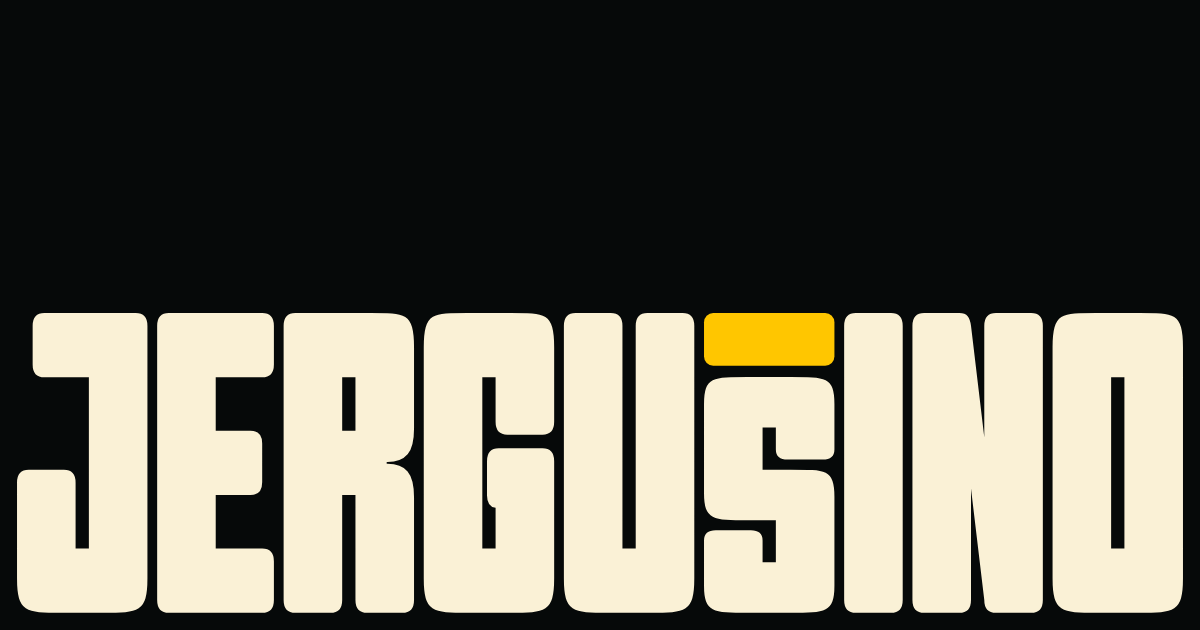
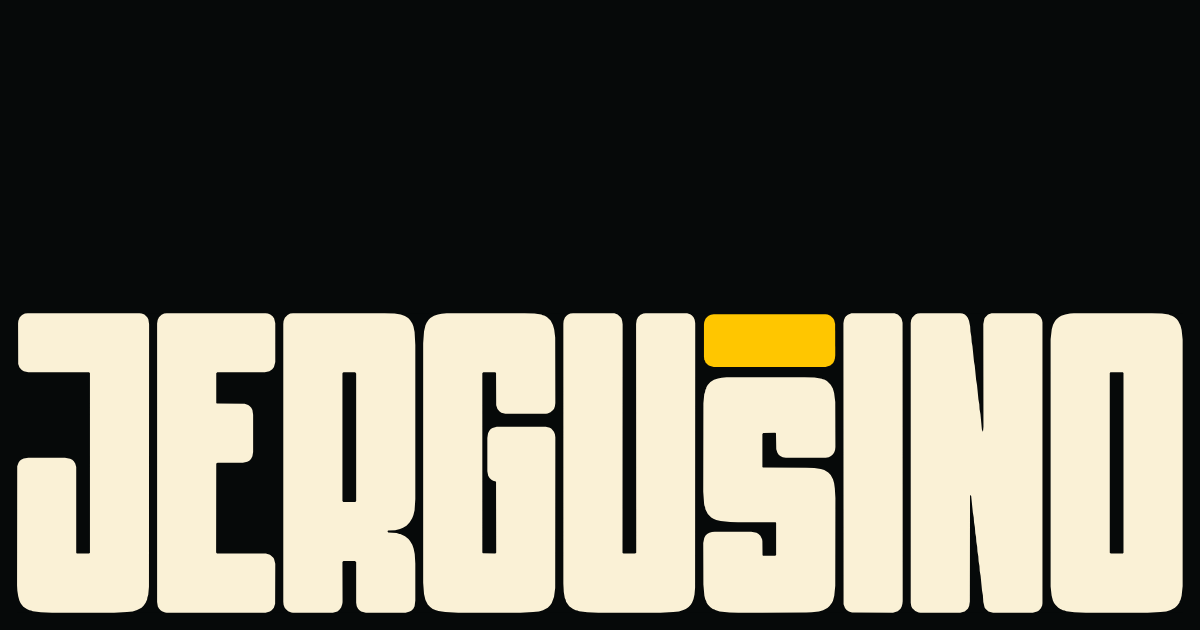
Wordmark traced from the business card instead of the Slithen font
Claude-Session: https://claude.ai/code/session_01RGVpc2Wp958A42zKqCrsaw

diff --git a/assets/css/main.css b/assets/css/main.css
@@ -118,7 +118,7 @@ a:hover, a:focus-visible { color: var(--yellow); }
 }
 .wm-mask { line-height: 0; clip-path: inset(-100vh 0 0 0); }   /* clips the letters below the baseline, leaves the sky open for the bar */
 .wordmark { display: block; width: 100%; height: auto; overflow: visible; }
-.wm-l { fill: var(--cream); }
+.wm-l { fill: var(--cream); fill-rule: evenodd; }
 .wm-bar { fill: var(--yellow); }
 
 /* pages: script + Slithen headline */
@@ -241,7 +241,7 @@ a:hover, a:focus-visible { color: var(--yellow); }
 }
 .wm-mask { line-height: 0; clip-path: inset(-100vh 0 0 0); }   /* clips the letters below the baseline, leaves the sky open for the bar */
 .wordmark { display: block; width: 100%; height: auto; overflow: visible; }
-.wm-l { fill: var(--cream); }
+.wm-l { fill: var(--cream); fill-rule: evenodd; }
 .wm-bar { fill: var(--yellow); }
 
 /* pages: script + Slithen headline */

diff --git a/index.html b/index.html
@@ -27,7 +27,7 @@ description: "i am Jergušino. Motion graphics, dizajn, kód a videá."
     if (!m || !b) return;
     function set() {
       var r = m.getBoundingClientRect();
-      var k = r.width / 1019;                       /* screen px per drawing unit */
+      var k = r.width / 1020;                       /* screen px per drawing unit */
       b.style.setProperty('--drop', '-' + ((r.top + window.scrollY) / k + 50).toFixed(1) + 'px');
       /* the fall takes as long as it needs to look the same on every screen: 0.4 s on a laptop, up to 0.9 s on a tall phone */
       var far = (r.top + window.scrollY) / window.innerWidth;           /* distance in screen widths */

diff --git a/tools/trace_card.py b/tools/trace_card.py
@@ -1,0 +1,119 @@
+"""Trace the wordmark from the business card (Front.png) into SVG paths.
+
+The card's letters are edited versions of Slithen (counters and bars were moved by hand), so the
+website uses the card itself as the source of truth instead of the font's outlines.
+
+Writes: _includes/wordmark.svg (one path per letter, for the rise animation), assets/img/wordmark.svg,
+assets/img/mark.svg and favicon.svg.
+
+Usage: python3 -I trace_card.py <Front.png> <site_dir>
+"""
+import os
+import sys
+
+import cv2
+import numpy as np
+from PIL import Image
+
+card, site = sys.argv[1:3]
+INK, CREAM, YELLOW = '#060909', '#FAF1D6', '#FFC600'
+UP = 8                      # supersampling for the trace
+EPS = 1.4                   # simplification tolerance, in supersampled px (0.18 card px)
+
+rgb = np.asarray(Image.open(card).convert('RGB')).astype(np.float32)
+R, G, B = rgb[..., 0], rgb[..., 1], rgb[..., 2]
+cream = np.clip((B - 9) / (214 - 9), 0, 1)                      # Ink 9, Cream 214, Yellow 0 in the blue channel
+yellow = np.clip((R - B) / 255.0, 0, 1)                          # Yellow 255, Cream 36, Ink 0
+
+TOP = 300                    # everything above is the script "i am"
+cream[:TOP] = 0
+yellow[:TOP] = 0
+
+# letter columns (x ranges of the cream ink in the card), found from the image
+cols = (cream > 0.5).any(0)
+runs, st = [], None
+for x, v in enumerate(cols):
+    if v and st is None:
+        st = x
+    if not v and st is not None:
+        runs.append((st, x - 1))
+        st = None
+if st is not None:
+    runs.append((st, len(cols) - 1))
+assert len(runs) == 9, runs
+
+ys, xs = np.where(cream > 0.5)
+X0, Y0 = int(xs.min()), int(ys.min())          # the wordmark's top-left corner on the card
+W = int(xs.max()) - X0 + 1
+H = int(ys.max()) - Y0 + 1
+
+
+def trace(mask, x_lo, x_hi, y_lo, y_hi, pad=3):
+    """Closed contours of mask>0.5 inside the box, in wordmark coordinates (card px, origin X0,Y0)."""
+    x_lo, y_lo = max(0, x_lo - pad), max(0, y_lo - pad)
+    x_hi, y_hi = min(mask.shape[1], x_hi + pad + 1), min(mask.shape[0], y_hi + pad + 1)
+    crop = mask[y_lo:y_hi, x_lo:x_hi]
+    big = cv2.resize(crop, None, fx=UP, fy=UP, interpolation=cv2.INTER_CUBIC)
+    bw = (big > 0.5).astype(np.uint8)
+    cs, _ = cv2.findContours(bw, cv2.RETR_CCOMP, cv2.CHAIN_APPROX_NONE)
+    d = ''
+    for c in cs:
+        if cv2.contourArea(c) < 20:
+            continue
+        c = cv2.approxPolyDP(c, EPS, True)[:, 0, :].astype(np.float64)
+        px = (c[:, 0] + 0.5) / UP + x_lo - X0
+        py = (c[:, 1] + 0.5) / UP + y_lo - Y0
+        d += 'M' + ' '.join('%.2f %.2f' % (a, b) for a, b in zip(px, py)).replace(' ', ',', 0) + 'Z'
+    return d.replace('M', 'M').replace(',', ',')
+
+
+def pathify(d):
+    # "x y x y ..." -> "x y L x y ..." keeps the file small and valid
+    out = []
+    for sub in d.split('M')[1:]:
+        pts = sub.rstrip('Z').split(' ')
+        pairs = [pts[i] + ' ' + pts[i + 1] for i in range(0, len(pts), 2)]
+        out.append('M' + pairs[0] + 'L' + ' '.join(pairs[1:]) + 'Z')
+    return ''.join(out)
+
+
+letters = []
+for lo, hi in runs:
+    letters.append(pathify(trace(cream, lo, hi, Y0, Y0 + H)))
+
+# the bar: the yellow rectangle above the S (6th letter); ignore the script's yellow elsewhere
+yellow[:, :runs[5][0] - 6] = 0
+yellow[:, runs[5][1] + 7:] = 0
+yellow[:310] = 0
+yb = np.where(yellow > 0.5)
+bx0, bx1, by0, by1 = int(yb[1].min()), int(yb[1].max()), int(yb[0].min()), int(yb[0].max())
+bar_d = pathify(trace(yellow, bx0, bx1, by0, by1))
+bar_x, bar_y, bar_w, bar_h = bx0 - X0, by0 - Y0, bx1 - bx0 + 1, by1 - by0 + 1
+s_x0, s_x1 = runs[5]
+
+os.makedirs(os.path.join(site, '_includes'), exist_ok=True)
+os.makedirs(os.path.join(site, 'assets', 'img'), exist_ok=True)
+
+inline = (
+    f'<svg class="wordmark" viewBox="0 0 {W} {H}" role="img" aria-label="Jergušino" xmlns="http://www.w3.org/2000/svg">'
+    + ''.join(f'<path class="wm-l" style="--i:{i}" d="{d}"/>' for i, d in enumerate(letters))
+    + f'<path class="wm-bar" d="{bar_d}"/></svg>\n'
+)
+open(os.path.join(site, '_includes', 'wordmark.svg'), 'w').write(inline)
+
+open(os.path.join(site, 'assets', 'img', 'wordmark.svg'), 'w').write(
+    f'<svg viewBox="0 0 {W} {H}" xmlns="http://www.w3.org/2000/svg"><rect width="{W}" height="{H}" fill="{INK}"/>'
+    f'<path fill="{CREAM}" fill-rule="evenodd" d="{"".join(letters)}"/><path fill="{YELLOW}" d="{bar_d}"/></svg>\n'
+)
+
+# the mark: the S with its bar, centred in a square of Ink
+SQ = 360
+mx = (SQ - (s_x1 - s_x0 + 1)) / 2 - (s_x0 - X0)
+my = (SQ - H) / 2
+mark = (
+    f'<svg viewBox="0 0 {SQ} {SQ}" xmlns="http://www.w3.org/2000/svg"><rect width="{SQ}" height="{SQ}" fill="{INK}"/>'
+    f'<g transform="translate({mx:.2f} {my:.2f})"><path fill="{CREAM}" fill-rule="evenodd" d="{letters[5]}"/><path fill="{YELLOW}" d="{bar_d}"/></g></svg>\n'
+)
+open(os.path.join(site, 'assets', 'img', 'mark.svg'), 'w').write(mark)
+open(os.path.join(site, 'favicon.svg'), 'w').write(mark)
+print('traced', W, 'x', H, '| bar', bar_x, bar_y, bar_w, bar_h, '| bytes', len(inline))

diff --git a/tools/build_assets.py b/tools/build_assets.py
@@ -2,8 +2,8 @@
 
 1. Patches Slovak letters into Slithen and Borisna (see add_carons.py / add_apos.py)
    and writes TTF + WOFF files for the website.
-2. Draws the wordmark and the Š mark as outlined SVG from Slithen, using the
-   construction numbers in the brand guide (v5, section 4).
+The wordmark and mark are NOT drawn from the font any more: the business card's letters are
+edited versions of Slithen, so tools/trace_card.py traces them from Front.png instead.
 
 Usage: python3 -I build_assets.py <slithen.ttf> <borisna.ttf> <site_dir> [edwardian.ttf]
 """
@@ -42,86 +42,4 @@ for name, src, tight in to_patch:
     f = TTFont(mid)
     f.flavor = 'woff'
     f.save(os.path.join(fonts_dir, name + '.woff'))
-
-# ── 2. wordmark ──────────────────────────────────────────────────────────────
-font = TTFont(slithen_src)
-gs = font.getGlyphSet()
-cmap = font.getBestCmap()
-
-W, H = 1019, 262          # wordmark box (card)
-GAP = 8.5                 # letter gap (card: 8 to 9 px)
-BAR_H, BAR_GAP, BAR_R = 46, 10, 8
-WORD = 'JERGUSINO'
-
-
-def ink(ch):
-    bp = BoundsPen(gs)
-    gs[cmap[ord(ch)]].draw(bp)
-    return bp.bounds  # xmin, ymin, xmax, ymax
-
-
-widths = [ink(c)[2] - ink(c)[0] for c in WORD]
-sx = (W - GAP * (len(WORD) - 1)) / sum(widths)   # horizontal scale so the word is exactly W wide
-sy = H / 700.0                                    # cap height = full wordmark height
-s_sy = (H - BAR_H - BAR_GAP) / 700.0              # the S is shorter: bar + gap sit above it
-
-
-def glyph_path(ch, x0, sx_, sy_):
-    b = ink(ch)
-    pen = SVGPathPen(gs, ntos=lambda v: ('%.2f' % v).rstrip('0').rstrip('.'))
-    # x' = x0 + (gx - xmin) * sx ; y' = H - gy * sy   (SVG y runs down)
-    tp = TransformPen(pen, (sx_, 0, 0, -sy_, x0 - b[0] * sx_, H))
-    gs[cmap[ord(ch)]].draw(tp)
-    return pen.getCommands()
-
-
-x = 0.0
-letters = []
-bar = None
-for ch, w in zip(WORD, widths):
-    is_s = ch == 'S'
-    d = glyph_path(ch, x, sx, s_sy if is_s else sy)
-    letters.append(d)
-    if is_s:
-        bar = (x, w * sx)
-    x += w * sx + GAP
-assert abs((x - GAP) - W) < 0.5, x
-bar_x, bar_w = bar
-d_all = ' '.join(letters)
-
-
-def bar_rect(x_, y_, w_, cls=None, fill=None):
-    attrs = f'x="{x_:.2f}" y="{y_:.2f}" width="{w_:.2f}" height="{BAR_H}" rx="{BAR_R}"'
-    attrs += f' class="{cls}"' if cls else f' fill="{fill}"'
-    return f'<rect {attrs}/>'
-
-
-# inline version for templates (colours come from CSS)
-inline = (
-    f'<svg class="wordmark" viewBox="0 0 {W} {H}" role="img" aria-label="Jergušino" xmlns="http://www.w3.org/2000/svg">'
-    + ''.join(f'<path class="wm-l" style="--i:{i}" d="{d}"/>' for i, d in enumerate(letters))
-    + f'{bar_rect(bar_x, 0, bar_w, cls="wm-bar")}</svg>\n'
-)
-open(os.path.join(site, '_includes', 'wordmark.svg'), 'w').write(inline)
-
-# standalone files, brand colours baked in
-open(os.path.join(img_dir, 'wordmark.svg'), 'w').write(
-    f'<svg viewBox="0 0 {W} {H}" xmlns="http://www.w3.org/2000/svg"><rect width="{W}" height="{H}" fill="{INK}"/>'
-    f'<path fill="{CREAM}" d="{d_all}"/>{bar_rect(bar_x, 0, bar_w, fill=YELLOW)}</svg>\n'
-)
-
-# the mark: the S with its bar, centred in a square of Ink with at least one bar-height of clear space
-SQ = 360
-s_w = bar_w
-mx = (SQ - s_w) / 2
-my = (SQ - H) / 2
-s_d = glyph_path('S', mx, sx, s_sy)
-# glyph_path places y with the wordmark baseline at H; shift into the square
-mark_body = (
-    f'<g transform="translate(0 {my:.2f})"><path fill="{CREAM}" d="{s_d}"/>'
-    f'{bar_rect(mx, 0, s_w, fill=YELLOW)}</g>'
-)
-mark = f'<svg viewBox="0 0 {SQ} {SQ}" xmlns="http://www.w3.org/2000/svg"><rect width="{SQ}" height="{SQ}" fill="{INK}"/>{mark_body}</svg>\n'
-open(os.path.join(img_dir, 'mark.svg'), 'w').write(mark)
-open(os.path.join(site, 'favicon.svg'), 'w').write(mark)
-print('wordmark ok: S x=%.1f w=%.1f, sx=%.4f sy=%.4f, S sy=%.4f' % (bar_x, bar_w, sx, sy, s_sy))
+print('fonts ok')

diff --git a/README.md b/README.md
@@ -73,7 +73,7 @@ Needs Ruby. Not needed to publish.
 ## Brand rules the code follows
 
 - Only `#060909` Ink, `#FAF1D6` Cream, `#FFC600` Yellow. Yellow only on pointers: arrows, the @, the bar over the S, script lead-ins, the active filter.
-- Wordmark drawn from Slithen outlines with the exact numbers of the guide (1019 × 262, S 114 wide, bar 46 tall, 8.5 px gaps). It is in `_includes/wordmark.svg`; `assets/img/mark.svg` is the Š mark used as favicon.
+- The wordmark is traced from the business card itself (`Front.png`), because the card's letters are edited versions of Slithen. It is in `_includes/wordmark.svg` (one path per letter); `assets/img/mark.svg` is the Š mark used as favicon. To regenerate after changing the card: `python3 -I tools/trace_card.py Front.png .`
 - Home is *loud* (wordmark bottom-left at F = width/70, a third or more empty Ink); the footer is *quiet* (the handle, centred).
 - Motion on the home page is copied frame by frame from `title-card-jergusino.mp4`: a short Ink hold, the letters rise one by one from the baseline, then the bar falls from the very top of the screen, overshoots 10% and settles. *i am* writes on beside the letters (the one addition). Hard cuts and masks, no fades. It is switched off for visitors who prefer reduced motion.
 - Links and filters change colour on hover and focus, never opacity.
@@ -83,7 +83,7 @@ Needs Ruby. Not needed to publish.
 - **Borisna** is a *demo* font by Koplexs Studio: free for private, non-profit use only. The site currently uses it as a personal site. If the portfolio is used to get paid work, buy the commercial licence (koplexsstudio@gmail.com) before that.
 - **Slithen** came without a licence file. Check its terms where you got it.
 - **Edwardian Script ITC** is © International Typeface Corporation / Microsoft. The file allows editable embedding, but it is a commercial font, so check that your licence covers web use.
-- The fonts in `assets/fonts/` were extended with the Slovak letters Č Ľ Ť Ň Ď Ž ľ ť ď by copying carons and apostrophes from existing letters. `tools/build_assets.py` regenerates them (and the wordmark) from the original files. Check Slovak text with `ĺ`, `ŕ`, `Ĺ`, `Ŕ`: those four letters are not in these fonts.
+- The fonts in `assets/fonts/` were extended with the Slovak letters Č Ľ Ť Ň Ď Ž ľ ť ď by copying carons and apostrophes from existing letters. `tools/build_assets.py` regenerates them from the original files. Check Slovak text with `ĺ`, `ŕ`, `Ĺ`, `Ŕ`: those four letters are not in these fonts.
 
 ## Files
 
@@ -94,5 +94,5 @@ _projects/           one Markdown file per project
 _templates/          project template (not published)
 _layouts/ _includes/ page templates, wordmark, header, footer
 assets/              css, js, fonts, images
-tools/               new-project.sh, twotone.py, build_assets.py
+tools/               new-project.sh, twotone.py, build_assets.py (fonts), trace_card.py (wordmark)
 ```
